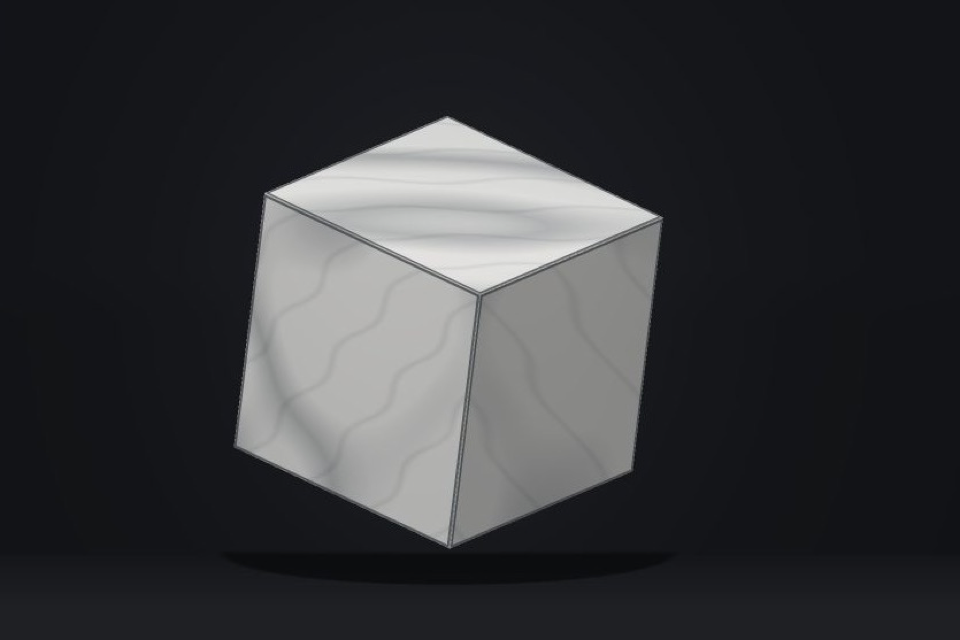
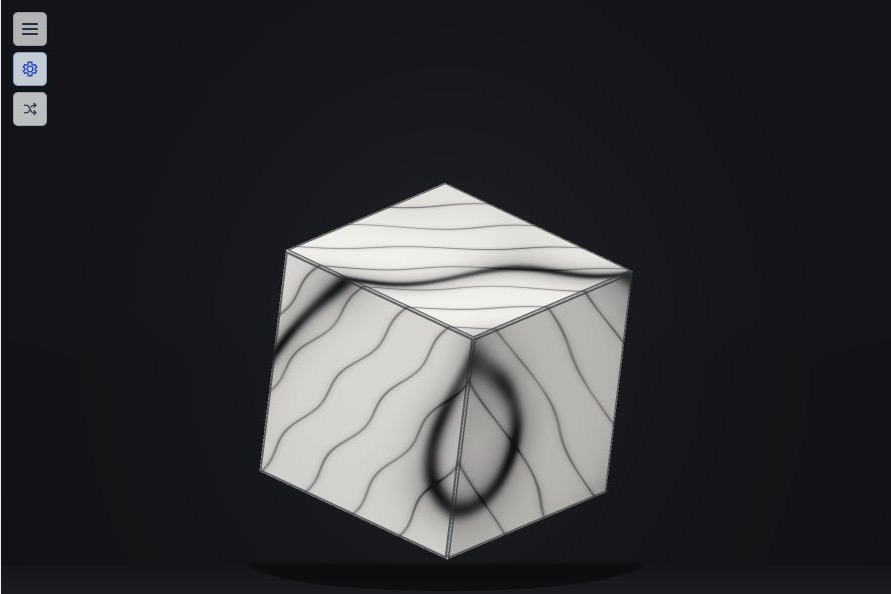
Refine marble cube material

Changed region(s): [[0.2424, 0.1818, 0.7273, 0.9394], [0.0, 0.0, 0.0606, 0.2121]]

diff --git a/index.html b/index.html
@@ -10,15 +10,15 @@
     />
     <meta name="robots" content="index, follow" />
     <link rel="canonical" href="https://potatovender.github.io/Lepton-GRE/" />
-    <link rel="icon" href="./src/assets/lepton-favicon.png?v=20260728-boundary-sample-loader-marble" type="image/png" />
-    <link rel="shortcut icon" href="./src/assets/lepton-favicon.png?v=20260728-boundary-sample-loader-marble" type="image/png" />
-    <link rel="apple-touch-icon" href="./src/assets/lepton-favicon.png?v=20260728-boundary-sample-loader-marble" />
+    <link rel="icon" href="./src/assets/lepton-favicon.png?v=20260728-marble-contrast2" type="image/png" />
+    <link rel="shortcut icon" href="./src/assets/lepton-favicon.png?v=20260728-marble-contrast2" type="image/png" />
+    <link rel="apple-touch-icon" href="./src/assets/lepton-favicon.png?v=20260728-marble-contrast2" />
     <meta property="og:title" content="Lepton" />
     <meta property="og:description" content="Create dense mathematical field art with a precise GLSL renderer and LaTeX-aware workflow." />
     <meta property="og:type" content="website" />
     <meta property="og:url" content="https://potatovender.github.io/Lepton-GRE/" />
     <meta property="og:image" content="https://potatovender.github.io/Lepton-GRE/src/assets/lepton-logo-transparent.png" />
-    <link rel="stylesheet" href="./src/styles.css?v=20260728-boundary-sample-loader-marble" />
+    <link rel="stylesheet" href="./src/styles.css?v=20260728-marble-contrast2" />
   </head>
   <body class="landing-body">
     <header class="landing-nav" aria-label="Site navigation">
@@ -37,11 +37,11 @@
           <p class="hero-text">
             Lepton turns equations, recursive fields, color functions, and bounds into full-screen mathematical renders with a syntax path built for serious experimentation.
           </p>
-          <a class="hero-cta" href="./app.html?v=20260728-boundary-sample-loader-marble" data-launch-blank>Launch Blank Graph</a>
+          <a class="hero-cta" href="./app.html?v=20260728-marble-contrast2" data-launch-blank>Launch Blank Graph</a>
         </div>
         <div class="hero-visual" aria-label="Lepton renderer preview">
           <div class="field-preview">
-            <img src="./src/assets/sample-mandelbrot.png?v=20260728-boundary-sample-loader-marble" alt="A Mandelbrot set render preview" />
+            <img src="./src/assets/sample-mandelbrot.png?v=20260728-marble-contrast2" alt="A Mandelbrot set render preview" />
             <div class="field-grid" aria-hidden="true"></div>
           </div>
           <div class="formula-strip" aria-hidden="true">
@@ -78,41 +78,41 @@
         </div>
         <div class="sample-grid">
           <a class="sample-card" data-sample="fire" href="./app.html">
-            <img src="./src/assets/sample-fire.png?v=20260728-boundary-sample-loader-marble" alt="Fire-like recursive color field" />
+            <img src="./src/assets/sample-fire.png?v=20260728-marble-contrast2" alt="Fire-like recursive color field" />
             <span>Fire Sample</span>
           </a>
           <a class="sample-card" data-sample="mandelbrot" href="./app.html">
-            <img src="./src/assets/sample-mandelbrot.png?v=20260728-boundary-sample-loader-marble" alt="Mandelbrot-style recursive field" />
+            <img src="./src/assets/sample-mandelbrot.png?v=20260728-marble-contrast2" alt="Mandelbrot-style recursive field" />
             <span>Mandelbrot Set</span>
           </a>
           <a class="sample-card" data-sample="water" href="./app.html">
-            <img src="./src/assets/sample-ripple.png?v=20260728-boundary-sample-loader-marble" alt="Blue sine ripple field" />
+            <img src="./src/assets/sample-ripple.png?v=20260728-marble-contrast2" alt="Blue sine ripple field" />
             <span>Water Effect Sample</span>
           </a>
           <a class="sample-card" data-sample="stars" href="./app.html">
-            <img src="./src/assets/sample-contour.png?v=20260728-boundary-sample-loader-marble" alt="Galaxy-style star field render" />
+            <img src="./src/assets/sample-contour.png?v=20260728-marble-contrast2" alt="Galaxy-style star field render" />
             <span>Star Field Sample</span>
           </a>
           <a class="sample-card" data-sample="sky" href="./app.html">
-            <img src="./src/assets/sample-sky.png?v=20260728-boundary-sample-loader-marble" alt="Golden clouds beneath a blue sky" />
+            <img src="./src/assets/sample-sky.png?v=20260728-marble-contrast2" alt="Golden clouds beneath a blue sky" />
             <span>Sky Sample</span>
           </a>
           <a class="sample-card" data-sample="tree" href="./app.html">
-            <img src="./src/assets/sample-tree.png?v=20260728-boundary-sample-loader-marble" alt="A detailed procedural tree with layered foliage and bark" />
+            <img src="./src/assets/sample-tree.png?v=20260728-marble-contrast2" alt="A detailed procedural tree with layered foliage and bark" />
             <span>Tree Sample</span>
           </a>
           <a class="sample-card" data-sample="lava" href="./app.html">
-            <img src="./src/assets/sample-lava-lamp.png?v=20260728-boundary-sample-loader-marble" alt="A glowing animated lava lamp in a dark room" />
+            <img src="./src/assets/sample-lava-lamp.png?v=20260728-marble-contrast2" alt="A glowing animated lava lamp in a dark room" />
             <span>Lava Lamp Sample</span>
           </a>
           <a class="sample-card" data-sample="marble" href="./app.html">
-            <img src="./src/assets/sample-marble-cube.png?v=20260728-boundary-sample-loader-marble" alt="A rotatable three-dimensional cube with object-space marble veining" />
+            <img src="./src/assets/sample-marble-cube.png?v=20260728-marble-contrast2" alt="A rotatable three-dimensional cube with object-space marble veining" />
             <span>Marble Cube Sample</span>
           </a>
         </div>
       </section>
     </main>
 
-    <script type="module" src="./src/landing.js?v=20260728-boundary-sample-loader-marble"></script>
+    <script type="module" src="./src/landing.js?v=20260728-marble-contrast2"></script>
   </body>
 </html>

diff --git a/src/landing.js b/src/landing.js
@@ -1,4 +1,4 @@
-const APP_VERSION = "20260728-boundary-sample-loader-marble";
+const APP_VERSION = "20260728-marble-contrast2";
 const LEPTON_ICON_PATH = `./src/assets/lepton-favicon.png?v=${APP_VERSION}`;
 
 function ensureLeptonFavicon() {
@@ -524,7 +524,12 @@ folder Visible faces = {
   boundary showZN = faceZN
 }
 folder Object space marble = {
-  expression stoneCloud = clamp(0.83+0.1*marbleLayer(localX,localY,localZ,0.43,0.3)-0.34*clamp(1-abs(sin(0.61*localX+0.2*localY+0.37*localZ+2.2*marbleLayer(localX,localY,localZ,0.78,0.8))+0.42*sin(1.17*localX-0.73*localY+0.88*localZ+0.8*marbleLayer(localX,localY,localZ,1.37,2.1)))/0.72,0,1)-0.1*clamp(1-abs(sin(2.03*localX-1.31*localY+1.57*localZ+0.31*sin(3.7*localY-2.2*localZ)))/0.26,0,1),0.28,1)
+  expression calciteCloud = 0.55*sin(0.31*localX+0.23*localY+0.39*localZ)+0.28*cos(0.47*localY-0.29*localZ)+0.17*sin(0.61*localZ-0.19*localX)
+  expression veinWarp = 0.72*sin(0.43*localX-0.31*localY+0.37*localZ)+0.39*cos(0.67*localY+0.29*localZ)+0.21*sin(1.17*localX-0.83*localZ)
+  expression majorDistance = abs(sin(0.39*localX+0.14*localY+0.28*localZ+1.52*veinWarp)+0.2*sin(0.91*localX-0.57*localY+0.7*localZ))
+  expression branchDistance = abs(sin(2.37*localX-1.49*localY+1.91*localZ+0.46*veinWarp+0.27*sin(3.17*localY-2.23*localZ)))
+  expression veinStrength = clamp(0.82+0.1*sin(2.11*localX-1.37*localY+0.83*localZ)+0.08*cos(3.07*localY+1.73*localZ),0.58,1)
+  expression stoneCloud = clamp(0.975+0.025*calciteCloud-veinStrength*(0.78*e^(-((majorDistance/0.15)^2))+0.24*e^(-((majorDistance/0.54)^2))+0.38*e^(-((branchDistance/0.075)^2))+0.09*e^(-((branchDistance/0.27)^2))),0.03,1)
 }
 folder Rotated lighting and stone surface = {
   expression rolledLightX = rotateA(-0.42,0.74,0-zAngle)
@@ -534,18 +539,18 @@ folder Rotated lighting and stone surface = {
   expression objectLightX = rotateA(rolledLightX,pitchedLightZ,0-yAngle)
   expression objectLightY = pitchedLightY
   expression objectLightZ = rotateB(rolledLightX,pitchedLightZ,0-yAngle)
-  expression lightXP = 0.62+0.38*clamp(objectLightX,0,1)
-  expression lightXN = 0.62+0.38*clamp(0-objectLightX,0,1)
-  expression lightYP = 0.62+0.38*clamp(objectLightY,0,1)
-  expression lightYN = 0.62+0.38*clamp(0-objectLightY,0,1)
-  expression lightZP = 0.62+0.38*clamp(objectLightZ,0,1)
-  expression lightZN = 0.62+0.38*clamp(0-objectLightZ,0,1)
-  colour marbleXP = (124+131*x)*lightXP~(128+126*x)*lightXP~(132+120*x)*lightXP
-  colour marbleXN = (124+131*x)*lightXN~(128+126*x)*lightXN~(132+120*x)*lightXN
-  colour marbleYP = (124+131*x)*lightYP~(128+126*x)*lightYP~(132+120*x)*lightYP
-  colour marbleYN = (124+131*x)*lightYN~(128+126*x)*lightYN~(132+120*x)*lightYN
-  colour marbleZP = (124+131*x)*lightZP~(128+126*x)*lightZP~(132+120*x)*lightZP
-  colour marbleZN = (124+131*x)*lightZN~(128+126*x)*lightZN~(132+120*x)*lightZN
+  expression lightXP = 0.76+0.24*clamp(objectLightX,0,1)
+  expression lightXN = 0.76+0.24*clamp(0-objectLightX,0,1)
+  expression lightYP = 0.76+0.24*clamp(objectLightY,0,1)
+  expression lightYN = 0.76+0.24*clamp(0-objectLightY,0,1)
+  expression lightZP = 0.76+0.24*clamp(objectLightZ,0,1)
+  expression lightZN = 0.76+0.24*clamp(0-objectLightZ,0,1)
+  colour marbleXP = (15+240*x)*lightXP~(17+236*x)*lightXP~(20+229*x)*lightXP
+  colour marbleXN = (15+240*x)*lightXN~(17+236*x)*lightXN~(20+229*x)*lightXN
+  colour marbleYP = (15+240*x)*lightYP~(17+236*x)*lightYP~(20+229*x)*lightYP
+  colour marbleYN = (15+240*x)*lightYN~(17+236*x)*lightYN~(20+229*x)*lightYN
+  colour marbleZP = (15+240*x)*lightZP~(17+236*x)*lightZP~(20+229*x)*lightZP
+  colour marbleZN = (15+240*x)*lightZN~(17+236*x)*lightZN~(20+229*x)*lightZN
   draw(stoneCloud,colour=marbleXP,boundary=showXP)
   draw(stoneCloud,colour=marbleXN,boundary=showXN)
   draw(stoneCloud,colour=marbleYP,boundary=showYP)

diff --git a/app.html b/app.html
@@ -8,11 +8,11 @@
       name="description"
       content="Launch the Lepton-GRE mathematical grid renderer and function visualizer."
     />
-    <link rel="icon" href="./src/assets/lepton-favicon.png?v=20260728-boundary-sample-loader-marble" type="image/png" />
-    <link rel="shortcut icon" href="./src/assets/lepton-favicon.png?v=20260728-boundary-sample-loader-marble" type="image/png" />
-    <link rel="apple-touch-icon" href="./src/assets/lepton-favicon.png?v=20260728-boundary-sample-loader-marble" />
+    <link rel="icon" href="./src/assets/lepton-favicon.png?v=20260728-marble-contrast2" type="image/png" />
+    <link rel="shortcut icon" href="./src/assets/lepton-favicon.png?v=20260728-marble-contrast2" type="image/png" />
+    <link rel="apple-touch-icon" href="./src/assets/lepton-favicon.png?v=20260728-marble-contrast2" />
     <link rel="stylesheet" href="./src/libs/mathquill/style.css" />
-    <link rel="stylesheet" href="./src/styles.css?v=20260728-boundary-sample-loader-marble" />
+    <link rel="stylesheet" href="./src/styles.css?v=20260728-marble-contrast2" />
   </head>
   <body>
     <div id="app">
@@ -47,6 +47,6 @@
       </main>
     </div>
     <script src="./src/libs/mathquill/index.global.js"></script>
-    <script type="module" src="./src/browser-preview-live.js?v=20260728-boundary-sample-loader-marble"></script>
+    <script type="module" src="./src/browser-preview-live.js?v=20260728-marble-contrast2"></script>
   </body>
 </html>

diff --git a/src/browser-preview-live.js b/src/browser-preview-live.js
@@ -43,7 +43,7 @@ const SAVED_GRAPH_THUMBNAIL_QUALITY = 0.72;
 const SAVED_GRAPH_THUMBNAIL_MAX_CHARACTERS = 24_000;
 const SAVED_GRAPH_LEGACY_THUMBNAIL_MAX_CHARACTERS = 4_000_000;
 const SAVED_GRAPH_THUMBNAIL_VERSION = 2;
-const APP_VERSION = "20260728-boundary-sample-loader-marble";
+const APP_VERSION = "20260728-marble-contrast2";
 const LEPTON_ICON_PATH = `./src/assets/lepton-favicon.png?v=${APP_VERSION}`;
 
 function ensureLeptonFavicon() {
